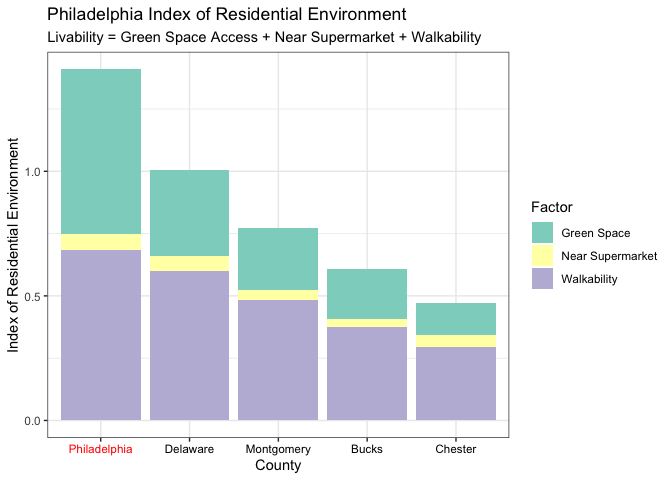
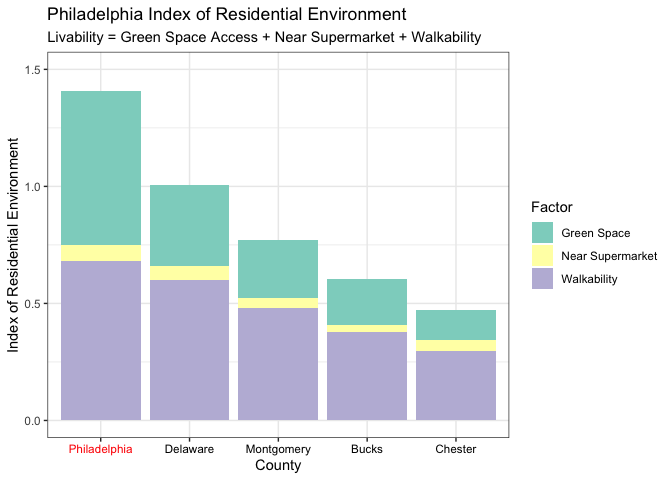
standardized Philly axis scales

diff --git a/2. Graph Creation/Philly/Philly-Final-Graphs.md b/2. Graph Creation/Philly/Philly-Final-Graphs.md
@@ -249,7 +249,7 @@ options(scipen = 999)
 df_philly_2015 %>% mutate(City_Suburb = ifelse(county_code == 'Philadelphia','City','Suburb')) %>% 
   ggplot( aes(x = college_deg, y = median_income))+
   geom_point(aes(color = City_Suburb), alpha = .5, size = 2)+
-  scale_y_continuous(labels = function(x){paste0("$", x/1000, "K")})+
+  scale_y_continuous(labels = function(x){paste0("$", x/1000, "K")}, limits = c (0,250000))+
   scale_x_continuous(labels = function(x){paste0(x, "%")})+
   labs(
     title = 'Median Income vs. College Degree in Philadelphia',
@@ -268,7 +268,7 @@ df_philly_2015 %>% mutate(City_Suburb = ifelse(county_code == 'Philadelphia','Ci
 df_philly_2015 %>% mutate(City_Suburb = ifelse(county_code == 'Philadelphia','City','Suburb')) %>% 
   ggplot( aes(x = perc_over15_high_skill, y = median_income))+
   geom_point(aes(color = City_Suburb), alpha = .5, size = 2)+
-  scale_y_continuous(labels = function(x){paste0("$", x/1000, "K")})+
+  scale_y_continuous(labels = function(x){paste0("$", x/1000, "K")}, limits = c(0,250000))+
   scale_x_continuous(labels = function(x){paste0(x, "%")})+
   labs(
     title = 'Median Income vs. Skilled Labor in Philadelphia',
@@ -291,7 +291,7 @@ ggplot(df_philly_2015, aes(x = reorder(county_code, home_ownership), y = median_
   scale_color_viridis(name = "% Home Ownership",
                       breaks = seq(0,100,25),
                       labels = function(x){paste0(x, "%")}) +
-  scale_y_continuous(labels = function(x){paste0("$", x/1000, "K")}) +
+  scale_y_continuous(labels = function(x){paste0("$", x/1000, "K")}, limits=c(0,250000)) +
     labs(
     x = "County",
     y = "Median Income",
@@ -334,7 +334,7 @@ ggplot(income_Philly, aes(x = reorder(county_code, deviation), y = deviation,
   )+
   theme_bw()+
   theme(axis.text.y = element_text(colour = text_color)) +
-  scale_y_continuous(labels = function(x){paste0("$", x/1000, "K")}) 
+  scale_y_continuous(labels = function(x){paste0("$", x/1000, "K")}, limits = c(-25000,30000)) 
 ```
 
     ## Warning: Vectorized input to `element_text()` is not officially supported.
@@ -358,7 +358,8 @@ df_philly_2015 %>%
   labs(title = "2015 Philadelphia 3rd Grades Reading and Math Scores", 
        subtitle = "Vs. National Average", 
        x = "County", 
-       y = "3rd Grades Reading & Math scores")
+       y = "3rd Grades Reading & Math scores") +
+  scale_y_continuous(limits=c(0,1000))
 ```
 
 ![](Philly-Final-Graphs_files/figure-gfm/unnamed-chunk-9-1.png)<!-- -->
@@ -496,7 +497,8 @@ ggplot(df2, aes(x = df2$county_code, y = df2$count, fill = df2$Factor))+
   scale_fill_brewer(palette="Set3") +
   theme_bw()+
   labs(title = "Philadelphia Index of Residential Environment", subtitle = "Livability = Green Space Access + Near Supermarket + Walkability", y = "Index of Residential Environment", x = "County", fill = 'Factor')+
-  theme(axis.text.x = element_text(color = text_color))
+  theme(axis.text.x = element_text(color = text_color)) +
+  scale_y_continuous(limits=c(0,1.5))
 ```
 
     ## Warning: Vectorized input to `element_text()` is not officially supported.
